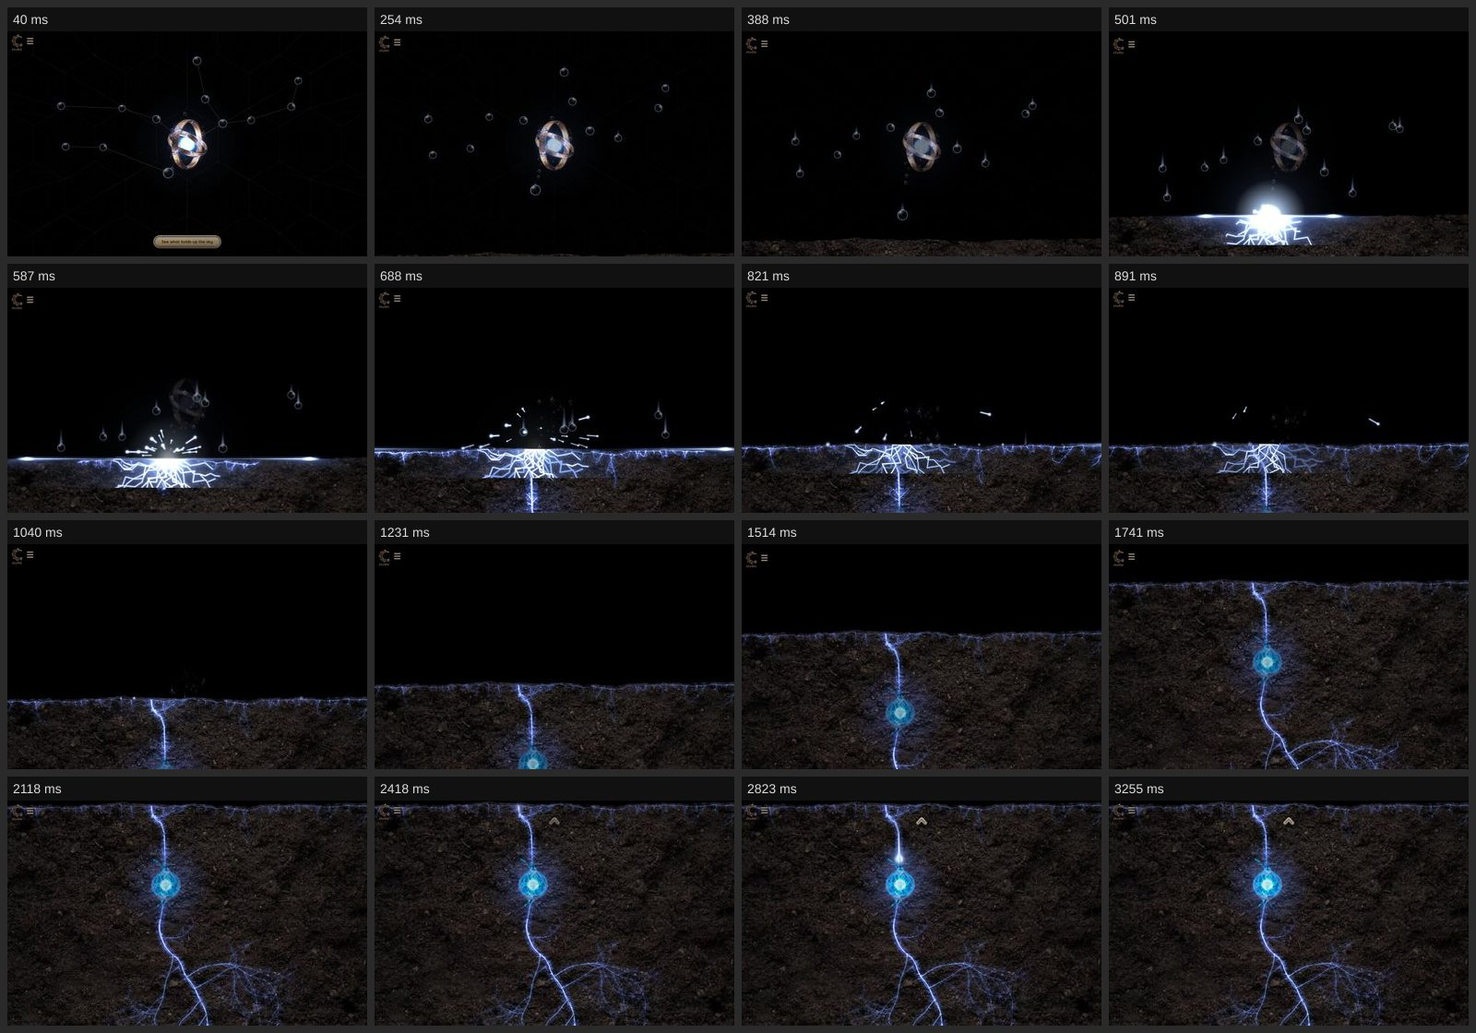
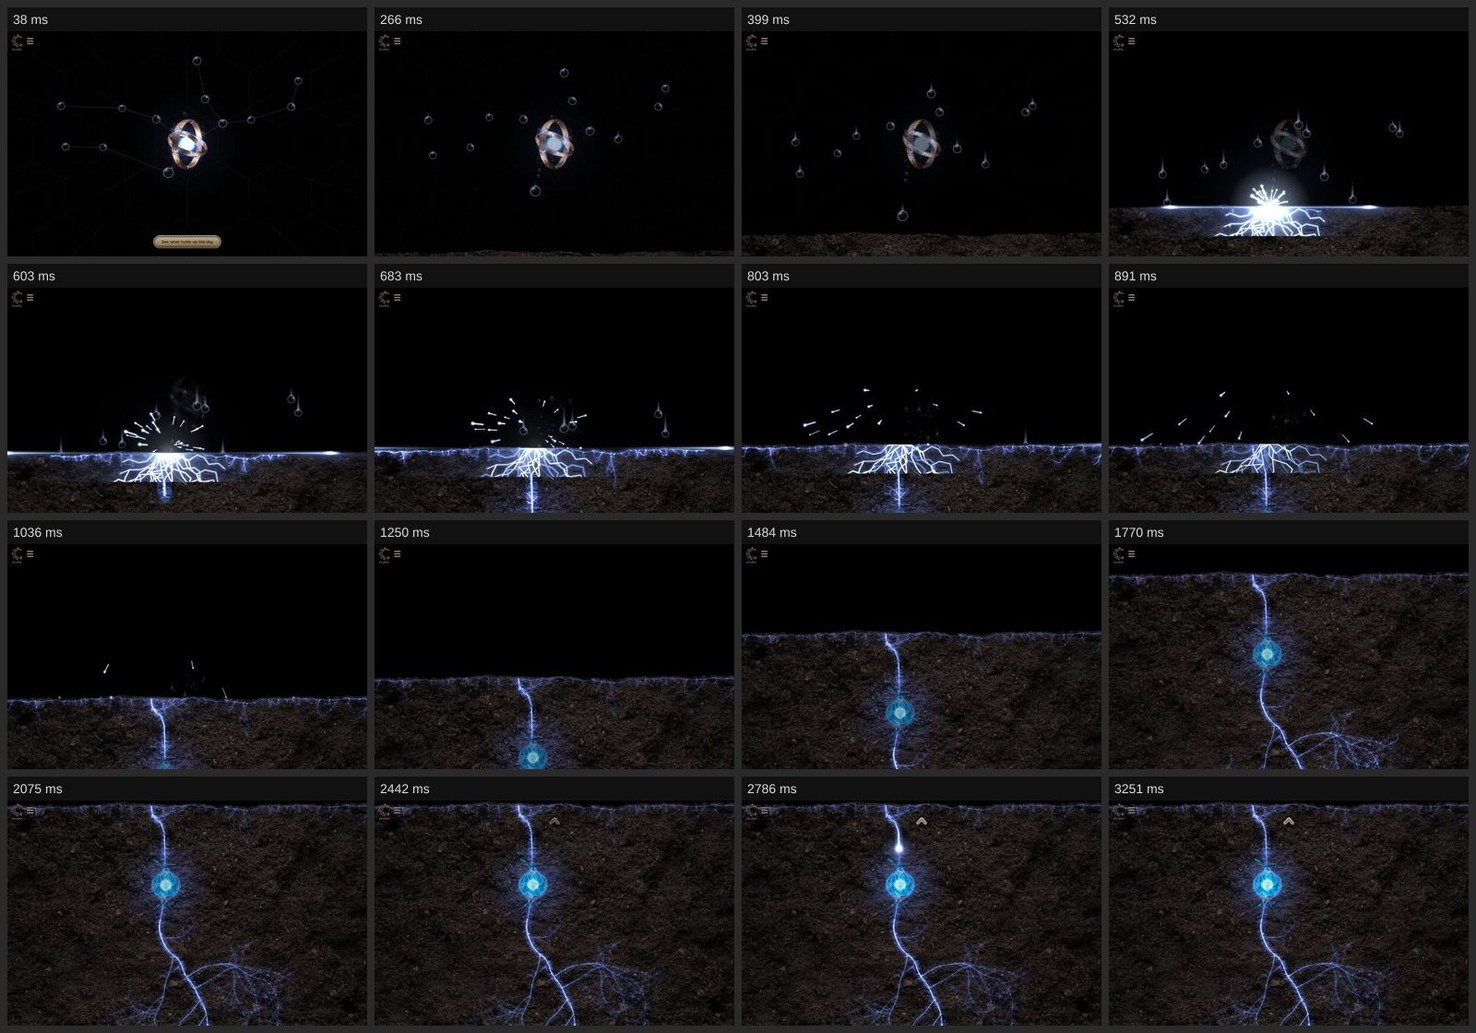
The warp back: E6 launches the visitor up to the sky
ascend() and showStar() from the Roots now play the warp: the ground drops
away under growing streaks, and the page becomes the sky in the first frame
the warp covers everything, so the swap is never seen, also when frames are
slow. About 1.5 s; it ends on the opening pose with the stars back and the
exit button still there. A second press and the menu are ignored meanwhile;
reduced motion keeps the fade.

Claude-Session: https://claude.ai/code/session_012W2mjAvaNe8UQ2tuJLbV2x

diff --git a/src/experience/director.ts b/src/experience/director.ts
@@ -85,6 +85,14 @@ const GROWTH_WAIT_MS = 1500;
 const WARP_MS = 1500;
 /** G2: where in the warp the frame is covered, if the effects layer cannot say. */
 const WARP_COVER_DEFAULT = 0.7;
+/**
+ * G2: the page becomes the sky this much of the warp before the middle of its
+ * cover, in the first frame the cover is whole, so that a slow frame still
+ * lands inside it.
+ */
+const WARP_LEAD = 0.04;
+/** G2: with no frames coming (a hidden tab) the swap is made by a timer, this late. */
+const WARP_LATE_MS = 250;
 /** The veil sits over the effects layer (30) and under the chrome (40): the logo stays. */
 const VEIL_Z = '35';
 /** Or over everything, the loader (50) included. */
@@ -432,10 +440,11 @@ export function createDirector(): StageDirector {
 	/**
 	 * G2. E6 was pressed, or a star was just claimed from the ground: launch
 	 * back up to the sky. The effects layer plays the warp; under it the ground
-	 * drops away, faster and faster, with the sky already live behind it, and
-	 * at the moment the warp covers the whole frame the page becomes the sky
-	 * (arriveInSky). Wall-clock time throughout, as the effects layer keeps it,
-	 * so the swap cannot miss the cover.
+	 * drops away, faster and faster, with the sky's opening pose already drawn
+	 * behind it, and in the first frame in which the warp covers everything the
+	 * page becomes the sky (arriveInSky). Wall-clock time throughout, as the
+	 * effects layer keeps it, and the swap is made in a frame callback, before
+	 * that frame is painted, so it cannot be seen even when frames are slow.
 	 */
 	async function warp(): Promise<void> {
 		const [sky, fx] = await Promise.all([soon('sky'), soon('fx')]);
@@ -447,23 +456,28 @@ export function createDirector(): StageDirector {
 
 		setScene('warp'); // spacer back, scrollTop corrected in the same frame: nothing moves
 		tell('sky', (above) => {
+			// One frame of the opening pose, to be seen above the falling ground.
+			// It is not set going until the page is the sky: the launch has the frame.
 			above.restore();
 			above.reset();
-			above.setStill(reducedMotion());
-			above.setActive(true);
 		});
 		const from = window.scrollY;
 		const t0 = performance.now();
-		const until = WARP_MS * cover;
+		const until = WARP_MS * Math.max(0.1, cover - WARP_LEAD);
+		let covered = (): void => {};
+		const swapTime = new Promise<void>((resolve) => {
+			covered = resolve;
+		});
 		const stop = onFrame(() => {
-			if (scene !== 'warp') return;
-			jump(from * (1 - easeIn(Math.min(1, (performance.now() - t0) / until))));
+			const t = performance.now() - t0;
+			if (scene === 'warp') jump(from * (1 - easeIn(Math.min(1, t / until))));
+			if (t >= until || scene !== 'warp') covered();
 		});
 		const played = Promise.resolve()
 			.then(() => fx.warp(WARP_MS))
 			.catch((err) => console.error('[cellestial] the warp failed', err));
 		try {
-			await Promise.race([wait(until), played]);
+			await Promise.race([swapTime, wait(until + WARP_LATE_MS), played]);
 		} finally {
 			stop();
 		}

diff --git a/PROGRESS.md b/PROGRESS.md
@@ -14,29 +14,23 @@
 
 ## Exact next step
 
-**The arrival and the return, continued. The fall and the crash are built and measured (the
-row "Transitions" in the table). The warp back is written in `src/experience/director.ts`
-(`warp()`) and has run, but nobody has looked at it or measured it yet: that is step 1.**
+**The fall, the crash and the warp back are built and measured (the "Transitions" rows in the
+table). Next: walk the menu teleports with the real flash, then the chrome, B7, the credit.**
 
 In this order, each ending with `pnpm build`, `pnpm test`, `pnpm lint`, a commit, a push and
 this file updated:
 
-1. **The warp back** (G2): look at `node tools/transitions/strip.mjs --only warp` (strips of
-   frames at both sizes, from the top of the ground and from far down it) and run
-   `node tools/transitions/measure.mjs --only warp`; fix what they find. `ascend()` and
-   `showStar()` from the Roots both go through `warp()`: the ground drops away while
-   `fx.warp(1500)` plays, and the page becomes the sky under the warp's cover.
-2. **The teleport** (C4): `go()` already plays `fx.teleportFlash(swap, dir)`; walk the menu to all
+1. **The teleport** (C4): `go()` already plays `fx.teleportFlash(swap, dir)`; walk the menu to all
    four destinations from the sky and from the Roots at both sizes and look at each landing
    (`strip.mjs --only teleport`, `measure.mjs --only teleport`).
-3. **The chrome** (C1 to C3): the real logo with "studio", the three brass bars, the menu panel.
+2. **The chrome** (C1 to C3): the real logo with "studio", the three brass bars, the menu panel.
    Brief: `refs/briefs/cellestial-chrome.js`. Today it is a working placeholder. The tools
    find the menu by `#chrome button[popovertarget]` and `#chrome [data-dest="sky|build|claim|contact"]`:
    keep those.
-4. **B7**: the meaning of a constellation written in lightning over it once every one of its
+3. **B7**: the meaning of a constellation written in lightning over it once every one of its
    stars is lit, and "Jesus is King." after Leo; the lightning is `src/experience/loader/lightning.ts`.
-5. **`/credits.txt`**: the star-data credit (Yale Bright Star Catalog; d3-celestial, BSD 3-Clause).
-6. **Tidy**: delete `src/pages/dev/` and `src/experience/fx/dev/` (the effects layer's test page
+4. **`/credits.txt`**: the star-data credit (Yale Bright Star Catalog; d3-celestial, BSD 3-Clause).
+5. **Tidy**: delete `src/pages/dev/` and `src/experience/fx/dev/` (the effects layer's test page
    and its driver, kept only while the transitions are being built; their last commit is to be
    named in the header of `tools/fx/compare.mjs`) and the empty `wip/`.
 
@@ -60,11 +54,11 @@ Dev server: `PUBLIC_TURNSTILE_SITE_KEY=1x00000000000000000000AA pnpm astro dev -
 | Loading (A1–A5) | **done against the reference, polish pass included, except what is listed here; A5 now seen over the real sky (see "Sky, part A", step 4)** — `src/experience/loader/`, `src/components/scenes/Loader.astro`, asset module `scripts/assets/loader.mjs` (run by `node scripts/build-assets.mjs modules`; it writes `geometry.ts` and the matte, and run again it reproduces both) | Frozen at 14 times at 1440×900, no console errors, set beside the reference and looked at: `refs/loading/compare/desk-1.jpg`, `desk-2.jpg` (six rounds of fixes, then the polish pass of four items, each looked at close up: see the section below the table). Matches: the C's place and size; the order and tempo the circuits light in (a thin white wire with a blue glow); the cooling before the charge; the overload (a thin white-hot bolt from the top edge, the node lost in white with its rings showing through, a blue wash filling the bolt's half of the frame, spark dust); the camera pulling back; the first "e" thrown from the node by one tall arc and written in the reference's order; each letter written at the reference's moment as one thin white tube on its brass, with white ring nodes, in a wide navy haze; the node's rings lit white while the word is written; the cooling into the A4 picture itself. The two soft fields (the haze behind the letters, the overload's wash) were also measured, reference against build: `refs/loading/compare/light.txt`, written by `node tools/loader/light.mjs`. **Still different:** the lit circuits (1.33) are whiter, with less blue around them; the first arc (3.67) is less wild and the first piece of the "e" bolder; the overload's white has a more definite edge than the reference's bloom, and its sparks are coarser and fewer; close to the letter being written the haze is a little weaker (3.83) and the letters' edges cooler; once a letter is written the reference lets lightning play over it for longer, and it strikes the star (5.25) where the build only lights it; the node's lens keeps a darker blue ring round its white heart. **Phone (390×844, scale 2, touch):** the same 14 times looked at, `refs/loading/compare/phone-1.jpg`, `phone-2.jpg`: nothing clipped, the C is 62% of the width, the word fits at 87% with margins, the bolt comes down from the top edge. **Rules, measured in real time with `node tools/loader/measure.mjs` (mount to done) after the polish pass, desktop / phone:** full version 7.74 s / 7.73 s (must be 6.0–8.0); short version on a same-session reload 3.49 s / 3.47 s; tap at 1 s ends at 2.76 s / 2.76 s, the "a" key at 1 s 2.74 s / 2.75 s; Tab, Shift, Control, Alt, Meta, CapsLock at 1 s do not skip (7.75 s / 7.73 s); resize twice mid-run keeps the time (7.74 s / 7.75 s). Desktop only: each of the four pictures answering 404 in turn, the loader ends at once (0.01 s) and the sky is shown; sessionStorage blocked plays the full version (7.71 s); the sky's script failing to load, the loader fades out by itself at 6.62 s and the page opens on the Roots; the sky 30 s late, the wordmark holds 6 s and the loader goes at 12.65 s. Frame times 16.8–17.1 ms average at both sizes; phone with the CPU slowed 4×: 26.9 ms average, 50 ms at the 95th percentile, run 7.92 s. **A5 (the star-drop), both sizes, looked at:** `refs/loading/compare/a5-desk.jpg`, `a5-phone.jpg` (0, 0.15, 0.3, 0.5, 0.7, 0.9, 1.0 of its 1.5 s) and full-size crops: the star flashes and breaks into shards (eight or nine) cut from its own pixels, which tumble, catch the light, sweep out and home in on `sky.coreCircle()`, gone by 0.7; a blue-white light swells from the core and the letters bleach, nearest the star first, and sink, gone by 0.6. Over the placeholder sky this ends on black, and the light is centred on the middle of the screen, not on the star: to be looked at again with the real sky. **Short version** looked at again after the polish pass, both sizes: `refs/loading/compare/short.jpg` (the lit C in place, one bolt from the node writes the nine letters in about a second, cools, holds). **Also checked:** the same second always draws the same picture (two pages, and after seeking away and back: identical screenshots); after `done` the overlay is `display: none`, the canvas is 0×0 and the scene is the sky; with reduced motion the loader never shows; without script the cover is not on the page; the server-rendered C sits where the canvas draws it to 0.01 px at 1440×900, 390×844 and 844×390. **Not done:** frame times on a real phone (only headless Chromium with the CPU slowed); landscape phone, tablet and ultrawide framing were not looked at as pictures. |
 | Sky (B, G1) | **done, parts A and B, except what is listed in its two sections.** Part A: the void, the honeycomb, Cellestial's star, the twelve figures, the endless flight, the round and the exit button (B11), reduced motion, the governor, the hand-off from the loader, the fall. Part B: the beads (B8), the pulse and the words "claim yours" (B9), the empty-star panel (B10), the lit-star panel, a real send lighting the star, the waiting ask. **Not built:** B7 (the meaning written over a completed constellation); the full fall transition (it belongs to the Roots). — `src/experience/sky/`, `src/components/scenes/Sky.astro`, `tools/sky/` | Every sheet in `refs/sky/compare/` rebuilt by `node tools/sky/compare.mjs` on the real GPU at 1440×900 and 390×844 and looked at. `node tools/sky/measure.mjs`: 201 checks with real wheel, key, touch and mouse events, all passing, written to `refs/sky/measure.txt`. A real send walked through `scripts/shot.mjs` with `/api/contact` stubbed (`tools/sky/claim-200.steps.json`, `claim-400.steps.json`). **Not done:** frame times on a real phone (headless Chromium only, the real GPU and software with the CPU slowed 4×); landscape phone and tablet not looked at as pictures; no independent review. |
 | Effects (C4 flash, D2 burst, G2 warp) | **in place and looked at; nothing in it was changed.** `src/experience/fx/` (the pictures in `flash.ts`, `impact.ts`, `warp.ts`; the timekeeping in `layer.ts`), `src/components/scenes/Fx.astro`. It imports only `contracts.ts` and `tokens.ts`. Its test page `/dev/fx` (`src/pages/dev/fx.astro`, `src/experience/fx/dev/harness.ts`) is still in the tree and is deleted in the tidy step. | `node tools/fx/compare.mjs` writes every sheet and `measure.txt` into `refs/fx/compare/`; all were looked at, both sizes. **The flash** frozen at nine moments for each direction over a pale page of dark figures (`flash-<dir>-desk.jpg`, `-phone.jpg`): right-angle and 45° traces ending in ring nodes grow the way of travel, a hub like the emblem's node at the centre, the centre blooms blue-white at the peak, and from t 0.3 to 0.7 nothing of the page shows. Close up beside the lit emblem (`flash-peak.jpg`): the same kind of line (a white core in a blue glow, round ring nodes); **different:** at the peak the traces are whiter and thicker than A1's thin saturated blue, and the bloom lifts the black around the centre to blue-grey. **Real time, desktop / phone:** the flash lasts 423–432 / 421–435 ms without swap time (must be 300–500); `swap()` runs at 204–217 ms and the lowest alpha anywhere on the canvas at that moment is 255 (fully opaque), every run; with a 400 ms swap 823 / 821 ms; with a 2 s swap 1450 / 1433 ms (the hold is capped at 1 s); a swap that throws: 433 ms, the promise rejects with the error and the canvas is put away; two flashes asked for at once play one after the other (814 / 830 ms). **The impact** at six moments at three places along a ground line (`impact-desk.jpg`, `-phone.jpg`): a white flash on the line, jagged rays thrown down and sideways into the ground, a shock of light running both ways along the line, sparks that arc and fall back; gone by the end (760 ms). **The warp** at eight moments over soil and over the pale page (`warp-desk.jpg`, `-phone.jpg`): streaks from a vanishing point high in the frame, few then many and long, a blue-white flare; in real time fully opaque from 747 to 992 ms of 1200 and 1092 to 1456 ms of 1800 (the swap, at 0.7, is at 840 and 1260). **Reduced motion** (`rm.jpg`): plain fades through black, no impact. **At rest:** 0 animation frames asked for in 2 s, before any effect and after all three; the canvas is `display: none` and clear. **Frame times** (headless Chromium, software): 16.6–17.2 ms average; with the CPU slowed 4× the flash averages 36 / 44 ms with one 117 ms frame at its start (laying out the traces), the impact 23 / 18 ms, the warp 24 / 19 ms (worst 83 / 50 ms). **Not done:** not seen on a real phone; no independent review. |
-| Roots (E1–E6) | **built (steps 1 to 4 by its builder; the last look by the orchestrator); what differs from the spec is listed at the end of its section.** The soil (a tile of E1 with no mirror in it) with an uneven top edge, E6, five nodes as real buttons in a descending line, five tiles from the locked copy opened one at a time, the mycelium grown by code from where the nodes are, the guided light, the growth from an impact, the whole contract. **Not built here:** the arrival and the return themselves (the fall, the crash, the warp: the director still fades). — `src/experience/roots/` (`index.ts`, `net.ts`, `edge.ts`), `src/components/scenes/Roots.astro`, `scripts/assets/roots.mjs`, `tools/roots/` | `node tools/roots/measure.mjs`: 245 checks with real clicks, taps and keys at 1440×900, 390×844 and 320×568, all passing, written to `refs/roots/measure.txt`. `node tools/roots/words.mjs`: all five tiles equal the addendum character for character, three ways (`refs/roots/words.txt`). `node tools/roots/compare.mjs`: every sheet in `refs/roots/compare/` rebuilt and looked at. Numbers in the section below. **Not done:** frame times on a real phone (headless Chromium only, the real GPU and software, CPU slowed 4×); landscape phone and tablet not looked at as pictures; no independent review. |
+| Roots (E1–E6) | **built (steps 1 to 4 by its builder; the last look by the orchestrator); what differs from the spec is listed at the end of its section.** The soil (a tile of E1 with no mirror in it) with an uneven top edge, E6, five nodes as real buttons in a descending line, five tiles from the locked copy opened one at a time, the mycelium grown by code from where the nodes are, the guided light, the growth from an impact, the whole contract. The arrival and the return themselves (the fall, the crash, the warp) are the director's: see the "Transitions" rows. — `src/experience/roots/` (`index.ts`, `net.ts`, `edge.ts`), `src/components/scenes/Roots.astro`, `scripts/assets/roots.mjs`, `tools/roots/` | `node tools/roots/measure.mjs`: 245 checks with real clicks, taps and keys at 1440×900, 390×844 and 320×568, all passing, written to `refs/roots/measure.txt`. `node tools/roots/words.mjs`: all five tiles equal the addendum character for character, three ways (`refs/roots/words.txt`). `node tools/roots/compare.mjs`: every sheet in `refs/roots/compare/` rebuilt and looked at. Numbers in the section below. **Not done:** frame times on a real phone (headless Chromium only, the real GPU and software, CPU slowed 4×); landscape phone and tablet not looked at as pictures; no independent review. |
 | Close (F1, F2) | **built**: exactly the two links the brief gives, F1 "Claim your star" (259×68 px, 21 px type) and F2 "Contact me" (137×44 px, 15 px type) 24 px under it, both centred, nothing else. — `src/components/scenes/Close.astro` | Same run: F1 opens the build request, F2 the message box; the menu lands on them; without script both are links to `/contact`. Looked at in the step 1 sheets. |
 | Chrome (C1–C3) | placeholder (logo, "studio", three bars, menu with four working teleports) | Walk-through above. |
 | Transitions: the fall and the crash (D1, D2) | **built.** `fall()` in `src/experience/director.ts`; two rules in the shell's stylesheet (`src/pages/index.astro`): the sky's buttons go while the stars fall and during the warp, and E6 is not there until the visitor has arrived. Nothing in the sky, the Roots or the effects layer was changed. **What happens:** B11 is pressed; the scene becomes `fall`; every star drops, all alike, with a trail (`sky.fall`); the document is scrolled by script so the soil rises into the bottom of the frame (to 32% of the screen in 0.9 s); the stars pass behind the soil's edge (the sky is a fixed canvas under the ground); the first one to reach it fires `fx.impact(x, y)` and `roots.growFrom(x)`; the burst's canvas is carried with the ground it struck; the view then follows the trunk's light down (1.2 s) until the top of the ground is the top of the screen; the scene becomes `roots` with the spacer collapsed and scrollTop corrected in the same frame; the sky is switched off and restored unseen; focus moves to the ground. The growth is left running (the network is not snapped whole). | Looked at as strips of sixteen frames, real clicks, real time, real GPU, both sizes: `refs/transitions/compare/fall-desk.jpg`, `fall-phone.jpg` (`node tools/transitions/strip.mjs --only fall`): one continuous event, no cut; the burst sits on the ground line and throws light down and sideways, then the trunk and node 1 light as the view goes down. `node tools/transitions/measure.mjs --only fall` (30 checks, all passing, in `refs/transitions/measure.txt`), desktop / phone: the ground is at the top 2168 / 2140 ms after the press; the star struck on screen at 464 / 495 ms (y 784 of 900 / 708 of 844); one impact, one growth; the ground never moved back down and moved 0.00 px in the frame the spacer collapsed; a second press at 300 ms, the menu at 500 ms and E6 at 700 ms did nothing; ends with scene `roots`, scrollY 0, focus on `#roots`, the sky's stars back. A reload 700 ms in opens on the sky again; back (to `/contact`) and forward 700 ms in leaves the page whole on the sky. Reduced motion: a fade straight to the Roots in about 0.6 s, no `fall` scene, no impact, the network whole. **Frame times during it:** real GPU 18.5 ms average, 33 ms at the 95th percentile, worst 50 ms (desktop); 16.8 ms average, worst 33 ms (phone size). In software with the CPU slowed 4×: 143 / 183 ms average, worst 400 / 417 ms, and the fall then takes 4.1 / 4.3 s instead of 2.2: it slows, it does not skip. **Different from the owner's words:** one star strikes and bursts (the contract's one impact); the others sink behind the soil's edge without a burst of their own. The trails are short. **Not done:** not seen on a real phone. |
-| Transitions: the warp back (G2) | **written, not looked at or measured** — `warp()` in `src/experience/director.ts` | — |
+| Transitions: the warp back (G2) | **built.** `warp()` in `src/experience/director.ts`; `ascend()` (E6) and `showStar()` from the Roots both use it. **What happens:** the scene becomes `warp` (the spacer returns, scrollTop corrected in the same frame, nothing moves); one frame of the sky's opening pose is drawn behind the ground; `fx.warp(1500)` plays while the ground drops away, faster and faster, from wherever the page was scrolled; in the first frame at or after 0.66 of the warp (the cover is whole from 0.64 to 0.76 and is centred on `WARP_COVER`, 0.7) the page becomes the sky by `arriveInSky()`: stars back, opening pose, B11 still there; the streaks thin and clear; focus moves to the sky. The swap is made in a frame callback on wall-clock time, with a timer 250 ms later for a tab with no frames. | Strips of sixteen frames, real clicks, real GPU, both sizes, from the top of the ground and from 1800 px down it, all looked at: `refs/transitions/compare/warp-desk.jpg`, `warp-phone.jpg`, `warp-deep-desk.jpg`, `warp-deep-phone.jpg`: the ground falls away under growing streaks from a point high in the frame, a blue-white flare covers everything, and it clears on the sky. `node tools/transitions/measure.mjs --only warp` (34 checks, all passing): 1509–1532 ms from the press to focus on the sky; the page became the sky at 998–1007 ms and the effects canvas was fully opaque in that frame (lowest alpha 255), also in software with the CPU slowed 4× (swap at 1033–1097 ms, still under the cover); a second press at 300 ms, the menu at 500 ms and B11 at 1200 ms did nothing; ends on scene `sky`, scrollY 0, Virgo's stars back, B11 visible, focus on `#sky-ui`, the effects canvas put away. Reduced motion: a fade to the still sky in about 0.53 s with B11 there. **Frame times:** real GPU 16.7 ms every frame at both sizes; software with the CPU slowed 4×: 42–47 ms average, worst 233 ms. **Not done:** `showStar()` after a real send from the Roots was not walked again with the warp in (it calls the same `warp()`); not seen on a real phone. |
 | Transitions: the teleport (C4) | the real flash plays; landings not walked yet | — |
 | B7 meaning reveal | not started | — |
 | Final verification: screenshot matrix, protected-systems diff | not started | — |
@@ -271,10 +265,8 @@ off.
   780×1600) and 27 MB at 1440×900 (six of 1440×800).
 
 **Roots and Close: every remaining difference from the spec and the owner's words.**
-1. **The arrival and the return are not built.** `growFrom(x)` and `showGrown()` are, and
-   were proved by calling them from the page; the fall, the soil rising into the frame, the
-   crash and the warp are the director's, and it still fades. Until then "stars fall, crash,
-   and become mycelium" cannot be seen on the site.
+1. (Closed later the same day.) The arrival and the return were not built when this section
+   was written; they now are, in the director: see the "Transitions" rows of the table.
 2. The growth lights the one seeded network: wherever the star falls, light runs sideways
    along the runner to the trunk and down it. Only a few roots of light at the point of the
    blow are particular to that point, and they fade in about half a second.
@@ -843,3 +835,7 @@ than two tries. All four were reached.
 - 2026-11-20 — The arrival and the return, step 2: the fall and the crash. `descend()` is now the
   stars falling, the soil rising to meet them, one impact, the growth, and the view following
   it down; looked at as strips at both sizes and measured (30 checks). The warp is written too.
+- 2026-11-20 — The arrival and the return, step 3: the warp back. E6 launches the visitor up: the
+  ground drops away under the warp and the page becomes the sky under its cover; looked at as
+  strips at both sizes from two depths and measured (34 checks). A fault found by the slowed
+  run and fixed: the swap was on a timer and could land after the cover had begun to clear.
